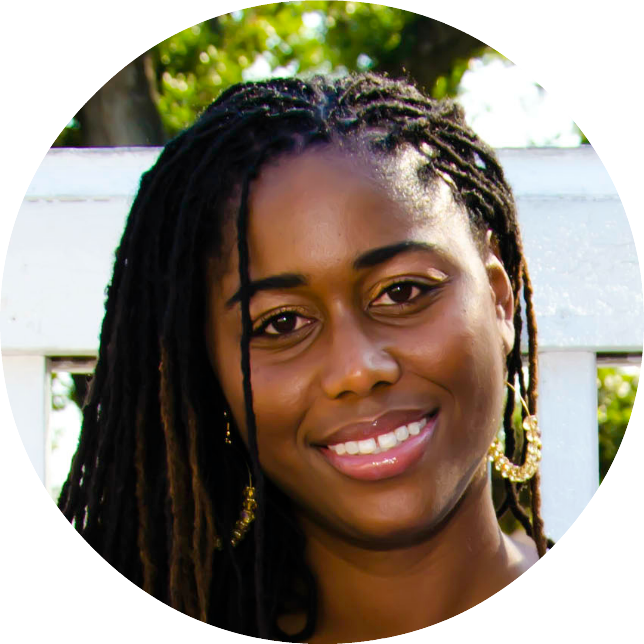
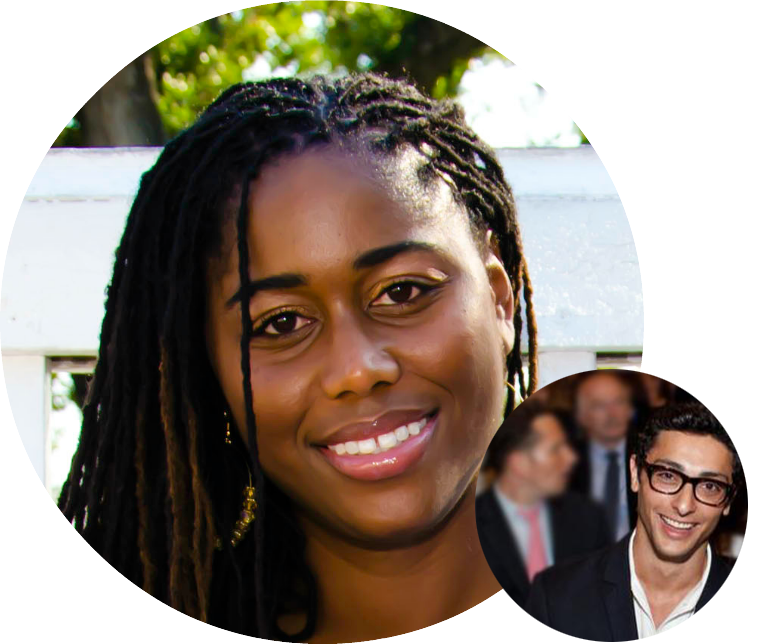
image replace

diff --git a/index.html b/index.html
@@ -29,7 +29,7 @@
         <h2>Check in and share your workout on facebook.</h2>
         <div class="selectBox">
           <img src="images/girl.png" style="width:200px;height:200px;padding-left:50px;padding-right:50px;padding-top:50px;float:left;">
-          <img src="images/mainGuy.png" style="width:100px;height:100px;float:left;">
+        
         <p>30 Minutes of Running with Titans: <br><br>Karly and Jim
           -at LA Fitness Wynnewood </p>
           <br><br>
